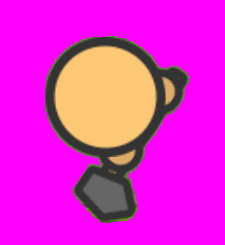
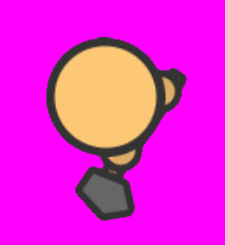
added camera view transform

diff --git a/DirectXFramework/SourceFiles/Sprite.cpp b/DirectXFramework/SourceFiles/Sprite.cpp
@@ -1,4 +1,5 @@
 #include "../Base/Sprite.h"
+#include "../Base/Camera.h"
 #include <assert.h>
 
 Sprite::Sprite(std::shared_ptr<Graphics> gfx, const std::wstring& filename, const int& width, const int& height)
@@ -32,7 +33,9 @@ dx::XMMATRIX Sprite::GetTransform()
 				dx::XMMatrixRotationZ(sprite_data_.angle_) *
 				dx::XMMatrixScaling((float)Graphics::viewport_height_/(float)Graphics::viewport_width_,1.0f,1.0f) *
 				dx::XMMatrixTranslation(-1.0f,1.0f,0.0f) *
-				dx::XMMatrixTranslation(sprite_data_.world_xoffset_, sprite_data_.world_yoffset_, 0.0f)
+				dx::XMMatrixTranslation(sprite_data_.world_xoffset_, sprite_data_.world_yoffset_, 0.0f) *
+				Camera::camera_translation_ *
+				Camera::camera_rotation_
 	);
 }
 
@@ -87,6 +90,16 @@ int Sprite::GetX()
 int Sprite::GetY()
 {
 	return sprite_data_.screen_yoffset_;
+}
+
+float Sprite::GetWorldX()
+{
+	return sprite_data_.world_xoffset_;
+}
+
+float Sprite::GetWorldY()
+{
+	return sprite_data_.world_yoffset_;
 }
 
 int Sprite::GetWidth()

diff --git a/DirectXFramework/ZombsPlayer.cpp b/DirectXFramework/ZombsPlayer.cpp
@@ -4,7 +4,8 @@ ZombsPlayer::ZombsPlayer(std::shared_ptr<Graphics>& graphics, const std::wstring
 	:
 	ZombsEntity(graphics,  spriteresource, width, height)
 {
-	SetSpeed(10.0f);
+	SetMaxSpeed(4.0f);
+	SetAcceleration(0.5f);
 }
 
 ZombsPlayer::~ZombsPlayer()
@@ -29,6 +30,13 @@ void ZombsPlayer::Update(std::shared_ptr<Input>& input, const float& dt)
 	if (input->KeyIsDown('D')) {
 		right = 1.0f;
 	}
+	
+	// Set speed
+	if ((left + right) != 0.0f || (up + down) != 0.0f) {
+		// clamp speed to max speed
+		speed_ = speed_ < max_speed_ ? (speed_ + acceleration_) : max_speed_;
+	}
+	//speed_ = 2.0f;
 	SetMovementVec({ left + right, up + down });
 	position_ = position_ + movement_vector_;
 	SyncSpritePosition();

diff --git a/DirectXFramework/ZombsEntity.h b/DirectXFramework/ZombsEntity.h
@@ -14,6 +14,7 @@ protected:
 	Vector2D position_ = { x_, y_ };
 
 	// Travelling variables
+	float max_speed_ = 0.0f;
 	float speed_ = 0.0f;
 	float acceleration_ = 0.0f;
 	Vector2D horizontal_vector_ = { 0.0f, 0.0f };
@@ -31,5 +32,8 @@ public:
 	void SetVerticalVec(const Vector2D& vec);
 	void SetMovementVec(const Vector2D& vec);
 	void SyncSpritePosition();
+	void SetMaxSpeed(const float& maxspeed);
+	void SetAcceleration(const float& acceleration);
 	void SetSpeed(const float& speed);
+	Sprite& GetSprite();
 };

diff --git a/DirectXFramework/ZombsIO.cpp b/DirectXFramework/ZombsIO.cpp
@@ -4,6 +4,10 @@ ZombsIO::ZombsIO(HWND hwnd)
 	:
 	Game(hwnd)
 {
+	background_.SetScaleX(10.0f);
+	background_.SetScaleY(10.0f);
+	background_.SetX((background_.GetWidth() / 2) * 10);
+	background_.SetY((background_.GetHeight() / 2) * 10);
 }
 
 ZombsIO::~ZombsIO()
@@ -17,6 +21,7 @@ void ZombsIO::Initialize(HWND hwnd)
 void ZombsIO::Update(std::shared_ptr<Input>& input, const float& dt)
 {
 	player_.Update(input, dt);
+	camera_.FollowSprite(player_.GetSprite());
 }
 
 void ZombsIO::AI()

diff --git a/DirectXFramework/ZombsIO.h b/DirectXFramework/ZombsIO.h
@@ -1,8 +1,8 @@
 #pragma once
 
 #include "Base/Game.h"
-#pragma once
 #include "Base/Sprite.h"
+#include "Base/Camera.h"
 #include "ZombsPlayer.h"
 
 struct ZombsIOState {
@@ -15,6 +15,7 @@ private:
 	ZombsIOState game_state_;
 	Sprite background_ = Sprite(graphics_, L"Images/zombsfloor.png", 800, 600);
 	ZombsPlayer player_ = ZombsPlayer(graphics_, L"Images/player.png", 100, 100);
+	Camera camera_;
 public:
 	ZombsIO(HWND hwnd);
 	virtual ~ZombsIO();

diff --git a/DirectXFramework/SourceFiles/Camera.cpp b/DirectXFramework/SourceFiles/Camera.cpp
@@ -1,0 +1,18 @@
+#include "../Base/Camera.h"
+#include "../Base/Sprite.h"
+
+DirectX::XMMATRIX Camera::camera_translation_ = DirectX::XMMatrixIdentity();
+DirectX::XMMATRIX Camera::camera_rotation_ = DirectX::XMMatrixIdentity();
+
+Camera::Camera() 
+{
+}
+
+Camera::~Camera()
+{
+}
+
+void Camera::FollowSprite(Sprite & sprite)
+{
+	camera_translation_ = DirectX::XMMatrixTranslation(-sprite.GetWorldX() + 1.0f, -sprite.GetWorldY() - 1.0f, 0.0f);
+}

diff --git a/DirectXFramework/ZombsEntity.cpp b/DirectXFramework/ZombsEntity.cpp
@@ -39,7 +39,22 @@ void ZombsEntity::SyncSpritePosition()
 	sprite_.SetY(int(position_.y_));
 }
 
+void ZombsEntity::SetMaxSpeed(const float & maxspeed)
+{
+	max_speed_ = maxspeed;
+}
+
+void ZombsEntity::SetAcceleration(const float & acceleration)
+{
+	acceleration_ = acceleration;
+}
+
 void ZombsEntity::SetSpeed(const float & speed)
 {
 	speed_ = speed;
+}
+
+Sprite & ZombsEntity::GetSprite()
+{
+	return sprite_;
 }

diff --git a/DirectXFramework/Base/Camera.h b/DirectXFramework/Base/Camera.h
@@ -1,0 +1,17 @@
+#pragma once
+
+#include <DirectXMath.h>
+
+class Sprite;
+class Camera {
+private:
+	float camera_x_ = 0.0f;		 // default camera position
+	float camera_y_ = 0.0f;		 // default camera position
+public:
+	static DirectX::XMMATRIX camera_translation_;
+	static DirectX::XMMATRIX camera_rotation_;
+public:
+	Camera();
+	~Camera();
+	void FollowSprite(Sprite& sprite);
+};

diff --git a/DirectXFramework/ZombConstants.h b/DirectXFramework/ZombConstants.h
@@ -1,6 +1,9 @@
 #pragma once
+
+#include <DirectXMath.h>
 #include <math.h>
 
+/* Vector 2D Class*/
 class Vector2D {
 public:
 	float x_;
@@ -17,9 +20,6 @@ public:
 		y_ += rhs.y_;
 		return *this;
 	}
-	/*Vector2D& operator+=(const Vector2D& rhs) {
-		return *this + rhs;
-	}*/
 	Vector2D& operator*(const float& scalar) {
 		x_ *= scalar;
 		y_ *= scalar;

diff --git a/DirectXFramework/Base/Sprite.h b/DirectXFramework/Base/Sprite.h
@@ -82,6 +82,8 @@ public:
 	void	SetAngle(const float& angle);
 	int		GetX();
 	int		GetY();
+	float	GetWorldX();
+	float	GetWorldY();
 	int		GetWidth();
 	int		GetHeight();
 	float	GetScaleX();
